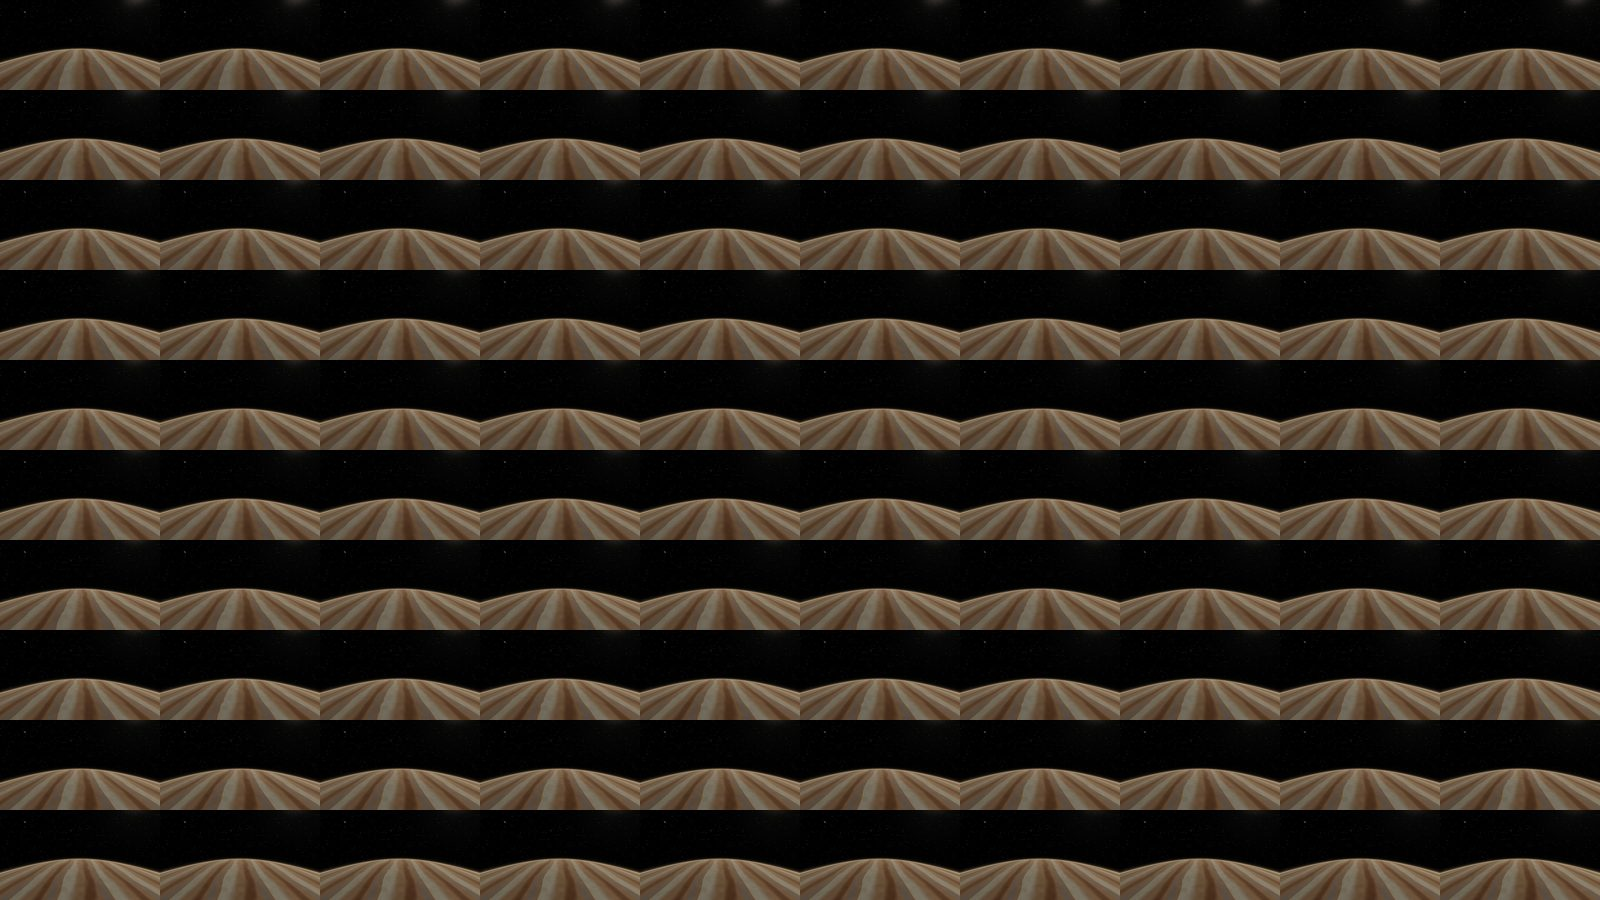
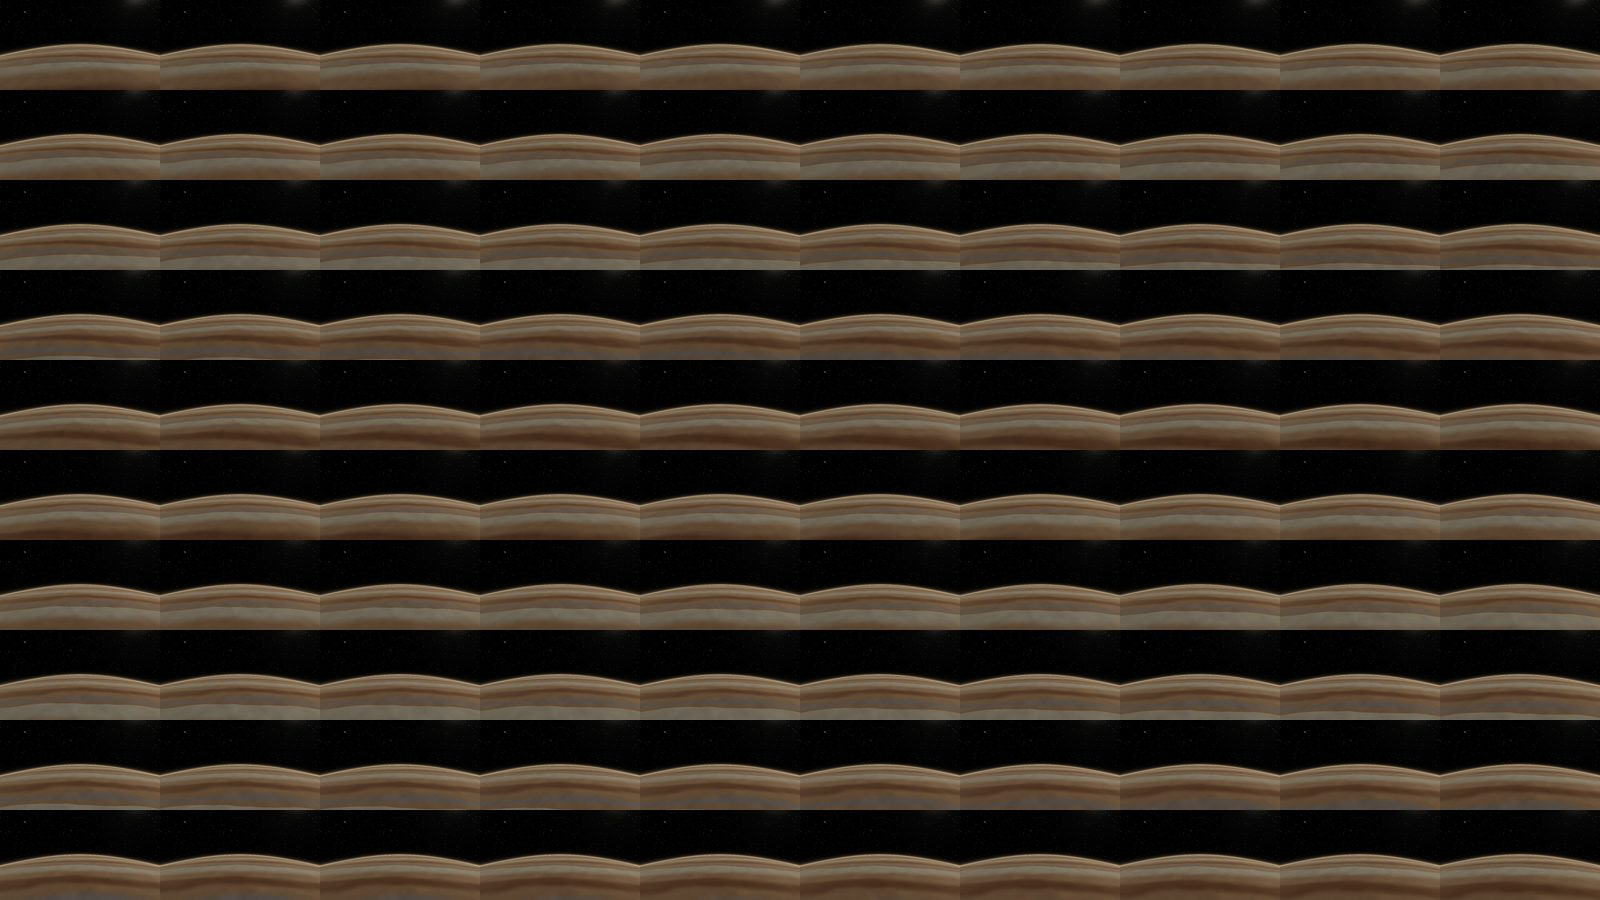
Previews for the planet journeys, including Over Saturn
Claude-Session: https://claude.ai/code/session_0157Wu3LX7XvtocLAYFRUbic

diff --git a/public/sw.js b/public/sw.js
@@ -1,7 +1,7 @@
 // Network-first with offline fallback: you always get the newest version
 // (and any newly recorded voice clips) when online, and MindLyte still works
 // with no connection because everything it plays is generated on-device.
-const CACHE = 'mindlyte-v135';
+const CACHE = 'mindlyte-v136';
 const SHELL = ['./', './index.html', './app.js', './styles.css', './manifest.webmanifest', './icons/icon-192.png', './icons/icon-512.png'];
 
 self.addEventListener('install', (e) => {
